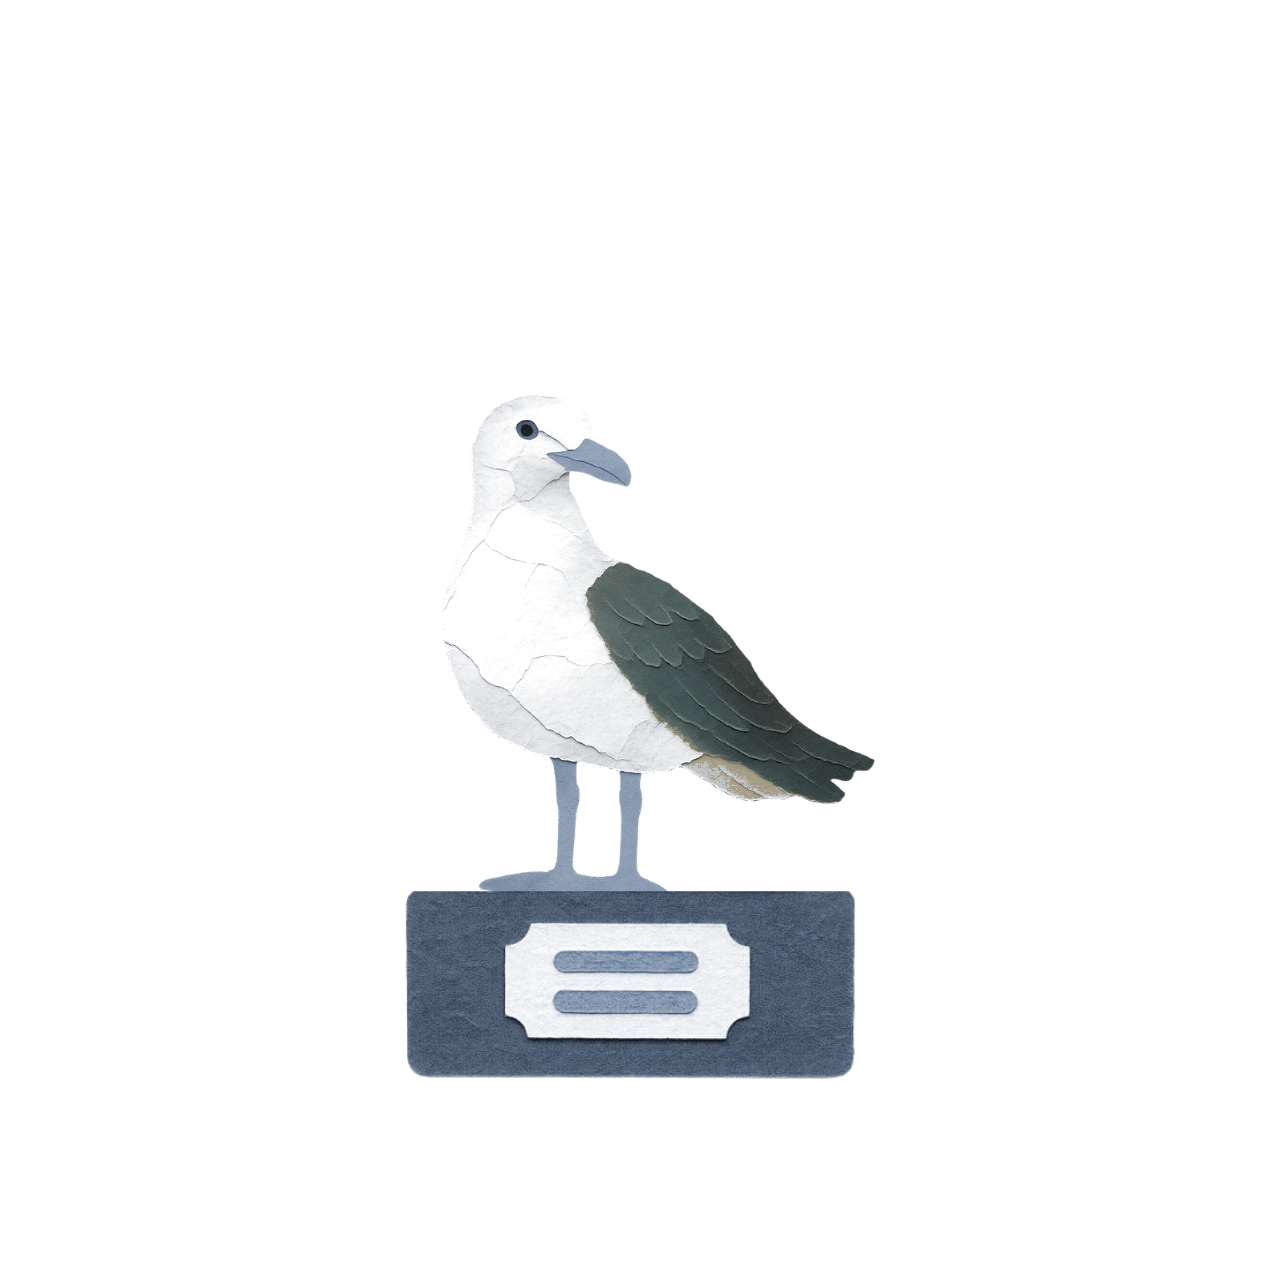
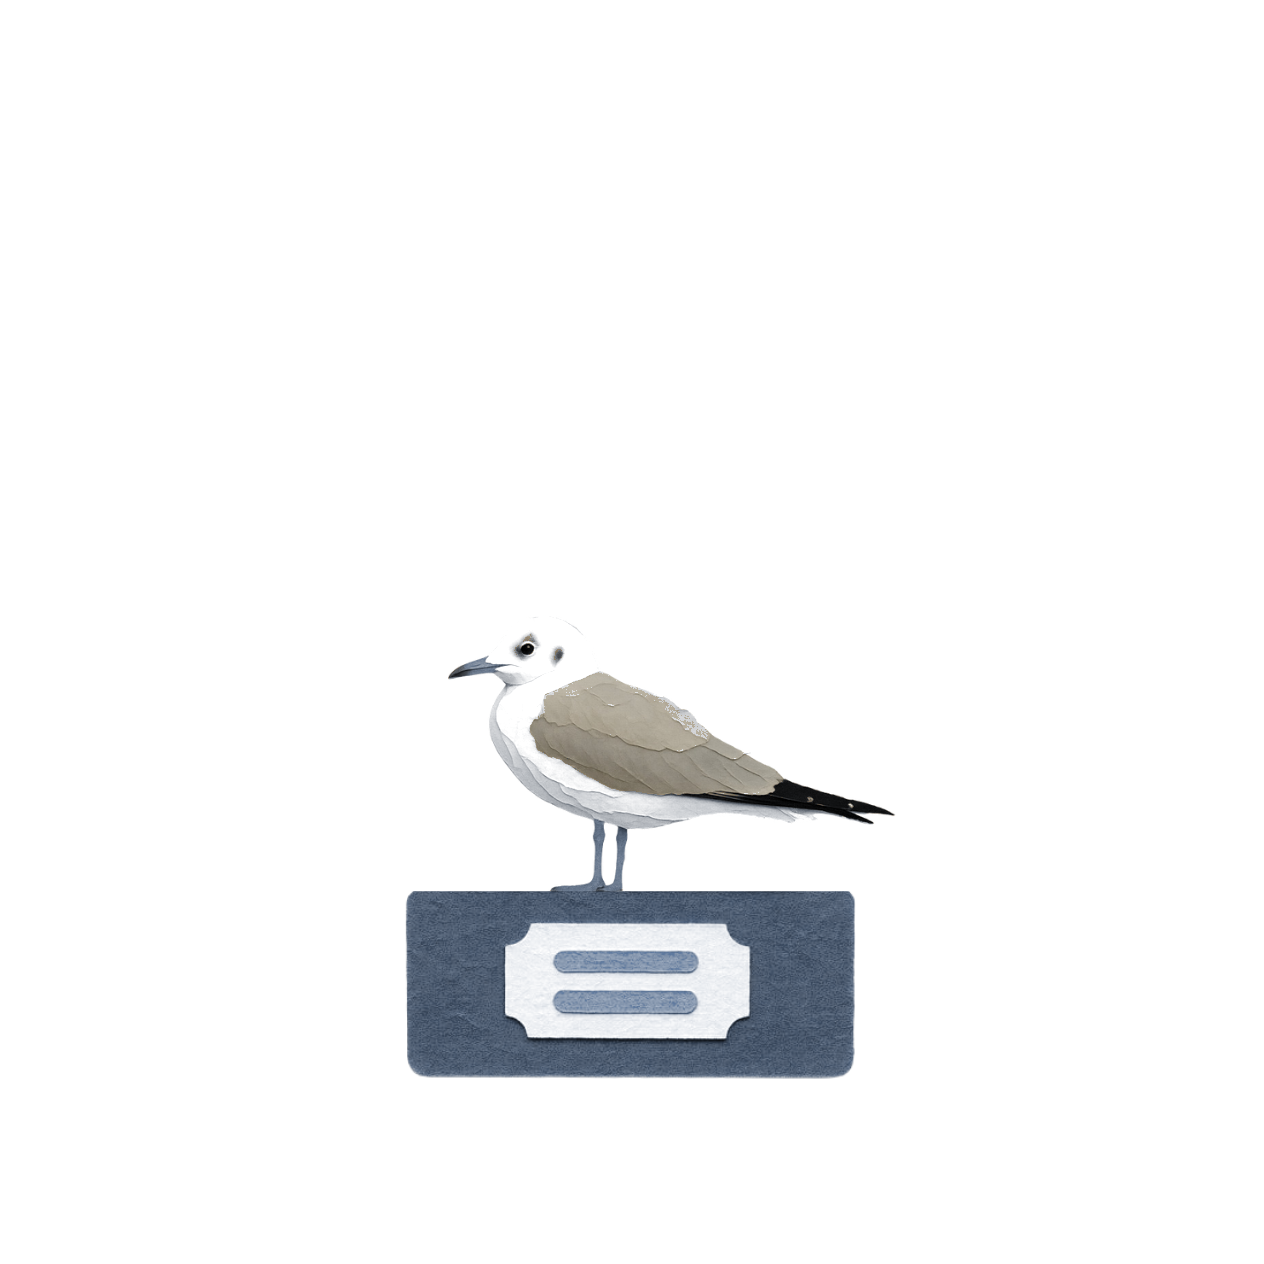
Trophee Goelands & mouettes : 6 nouveaux visuels papier-craft Canva (v2). Cache v184.

Changed region(s): [[0.3394, 0.432, 0.7097, 0.7097], [0.3703, 0.3085, 0.4937, 0.4011]]

diff --git a/service-worker.js b/service-worker.js
@@ -3,7 +3,7 @@
 //   puis rafraichit en background. Prochain reload = nouvelle version.
 // - Requetes cross-origin (Firestore, iNaturalist, xeno-canto, Wikipedia, etc.) : reseau seul.
 // - Bump CACHE_VERSION quand on veut invalider volontairement.
-const CACHE_VERSION = 'v183-2026-09-15-pics-visuel-v2';
+const CACHE_VERSION = 'v184-2026-09-15-laridae-visuel-v2';
 const CACHE_NAME = 'lmb-' + CACHE_VERSION;
 
 self.addEventListener('install', (e) => {
